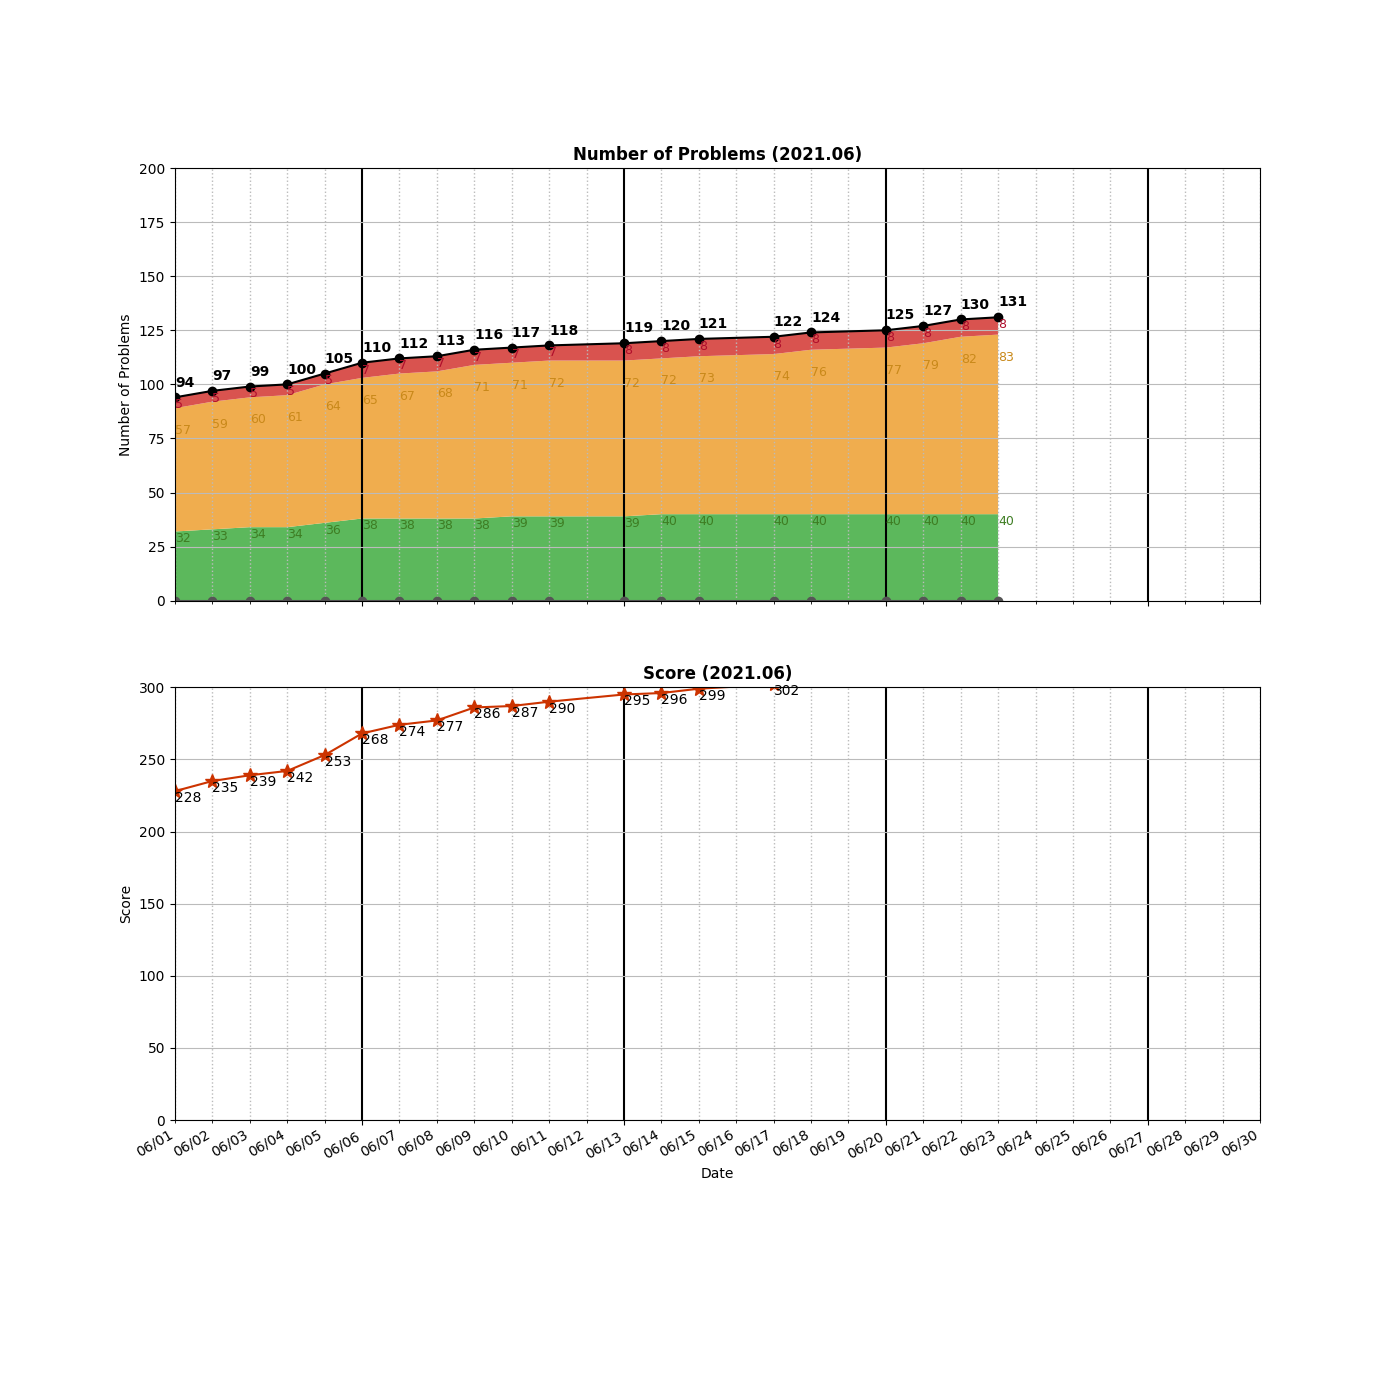
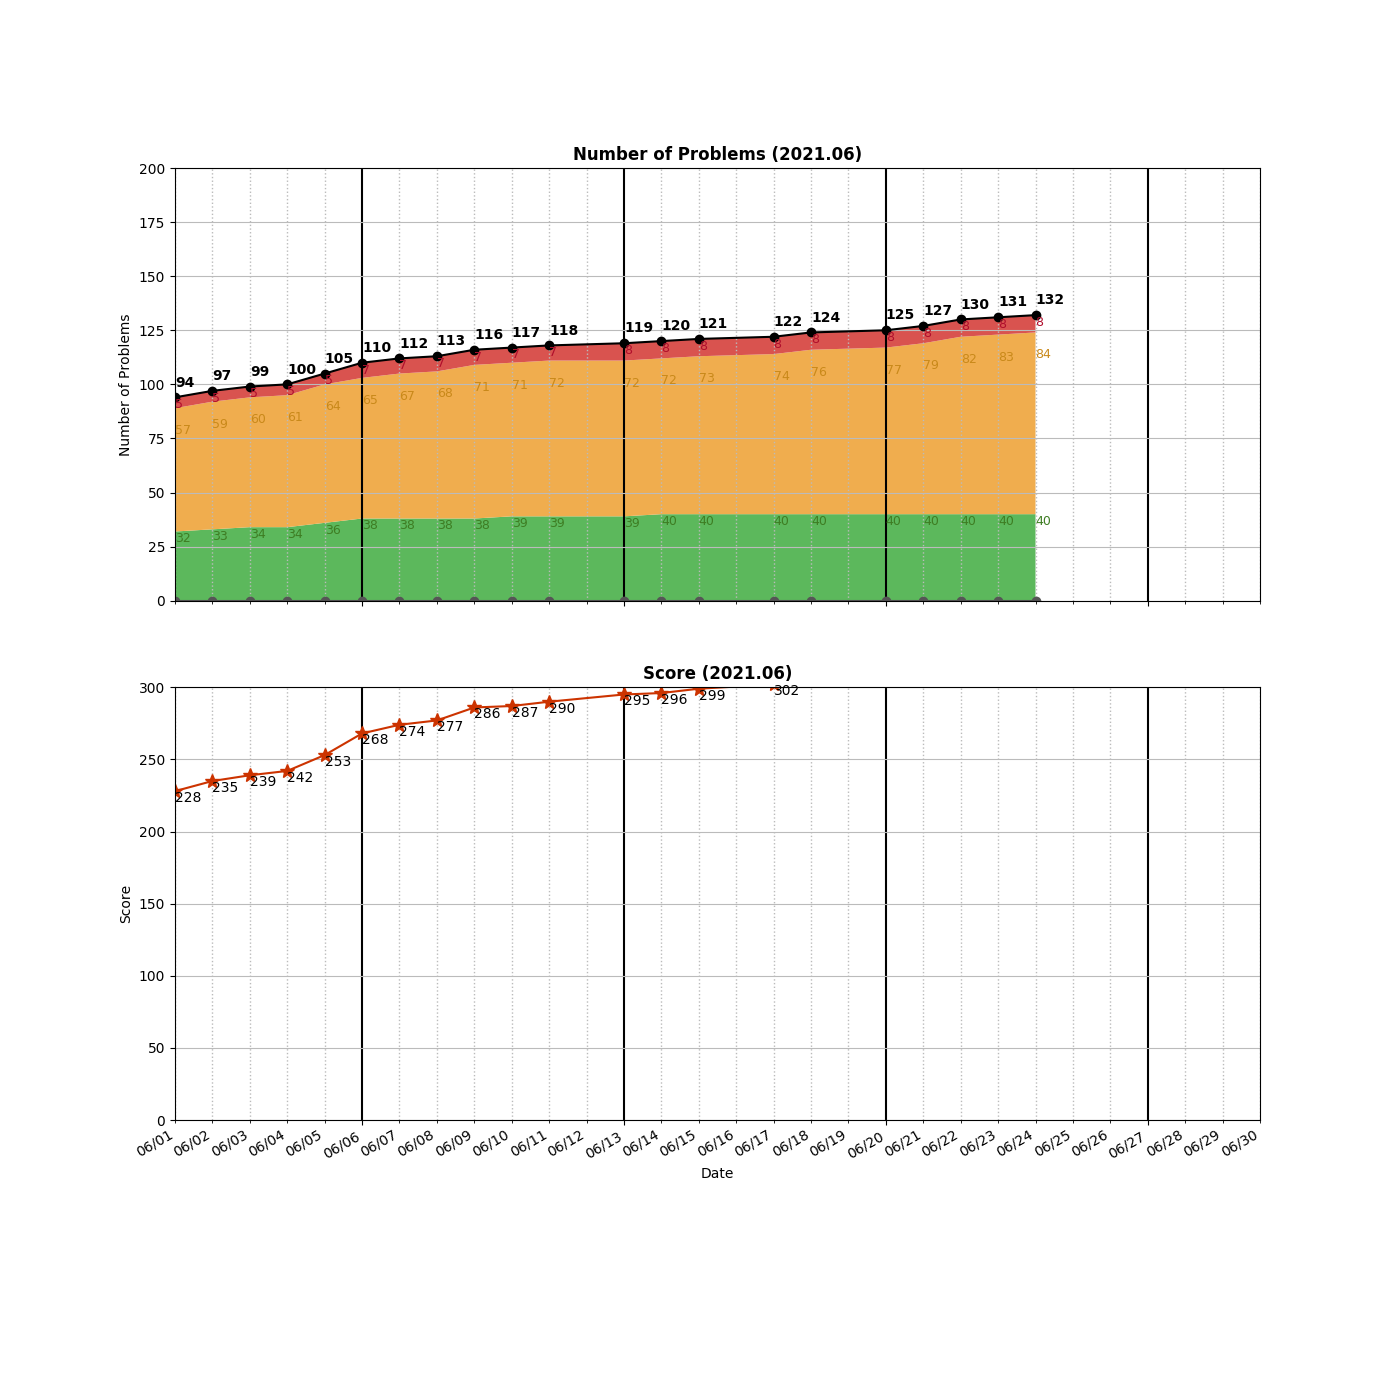
Added __0139__Word Break.py

Changed region(s): [[0.7064, 0.215, 0.7679, 0.43]]

diff --git a/algo/DFS/__0139__Word Break.py b/algo/DFS/__0139__Word Break.py
@@ -1,0 +1,57 @@
+class Solution:
+    
+    # Top-down DP [O(L3), 5%]   //len(s): L, len(wordDict): n
+    def wordBreak(self, s: str, wordDict: List[str]) -> bool:
+        if not s:
+            return True
+        if not wordDict:
+            return False
+        
+        wordSet = set(wordDict)
+        memo = {}
+        return self.checkSeparatible(s, 0, len(s), wordSet, memo)
+    
+    def checkSeparatible(self, s, i, j, wordSet, memo):
+        if i >= j:
+            return True
+        if (i, j) in memo:
+            return memo[(i, j)]
+        if s[i:j] in wordSet:
+            return True
+        
+        for k in range(i + 1, j):
+            if not self.checkSeparatible(s, i, k, wordSet, memo):
+                continue
+            if not self.checkSeparatible(s, k, j, wordSet, memo):
+                continue
+            memo[(i, j)] = True
+            return True  
+            
+        memo[(i, j)] = False
+        return False 
+    
+    
+#     # DFS [TLE]
+#     def wordBreak(self, s: str, wordDict: List[str]) -> bool:
+#         if not s:
+#             return True
+#         if not wordDict:
+#             return False
+        
+#         wordSet = set(wordDict)
+#         #print(wordSet)
+    
+#         return self.checkSeparatible(s, wordSet)
+    
+#     def checkSeparatible(self, s, wordSet):
+#         if not s:
+#             return True
+#         #print(s)
+#         if s in wordSet:
+#             #print(">>", s)
+#             return True
+        
+#         for i in range(1, len(s)):
+#             if self.checkSeparatible(s[:i], wordSet) and self.checkSeparatible(s[i:], wordSet):
+#                 return True
+#         return False 

diff --git a/README.md b/README.md
@@ -47,6 +47,7 @@ algo
 │   ├── __0090__Subsets\ II.py
 │   ├── __0112__Path\ Sum.py
 │   ├── __0113__Path\ Sum\ II.py
+│   ├── __0139__Word\ Break.py
 │   ├── __0200__Number\ of\ Islands.py
 │   ├── __0216__Combination\ Sum\ III.py
 │   ├── __0401__Binary\ Watch.py
@@ -159,7 +160,7 @@ algo
         ├── LinkedList.cpython-37.pyc
         └── UnrolledLinkedList.cpython-37.pyc
 
-19 directories, 139 files
+19 directories, 140 files
 
 =====================================
 ============= Local Repo ============
@@ -219,6 +220,7 @@ __0125__Valid Palindrome.py
 __0127__Word Ladder.py
 __0133__Clone Graph.py
 __0136__Single Number.py
+__0139__Word Break.py
 __0141__Linked List Cycle.py
 __0142__Linked List Cycle II.py
 __0144__Binary Tree Preorder Traversal.py
@@ -295,7 +297,7 @@ __1254__Number of Closed Islands.py
 __1429__First Unique Number.py
 __1593__Split a String Into the Max Number of Unique Substrings.py
 =====================================
-Num of Python Practice:  130
+Num of Python Practice:  131
 
 
 =====================================
@@ -357,6 +359,7 @@ Num of Python Practice:  130
  0127 Word Ladder
  0133 Clone Graph
  0136 Single Number
+ 0139 Word Break
  0141 Linked List Cycle
  0142 Linked List Cycle II
  0144 Binary Tree Preorder Traversal
@@ -434,10 +437,10 @@ Num of Python Practice:  130
  1593 Split a String Into the Max Number of Unique Substrings
 =====================================
 Solved / Total (Easy)  :   40 /  500
-Solved / Total (Medium):   83 / 1007
+Solved / Total (Medium):   84 / 1008
 Solved / Total (Hard)  :    8 /  399
-Solved / Total (All)   :  131 / 1906
-Total Score            :  329
+Solved / Total (All)   :  132 / 1907
+Total Score            :  332
 =====================================
 
 ```
